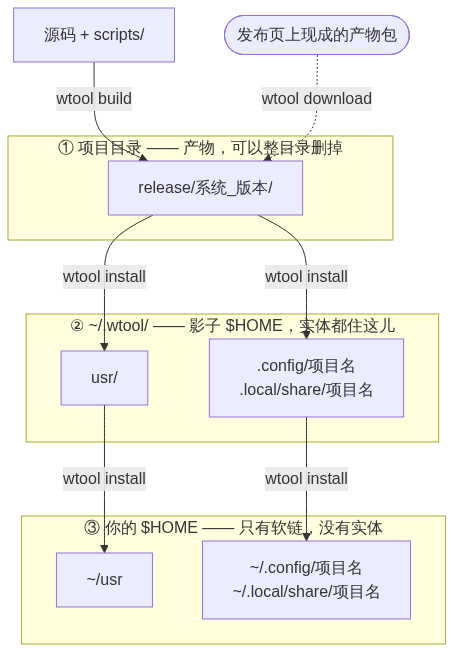
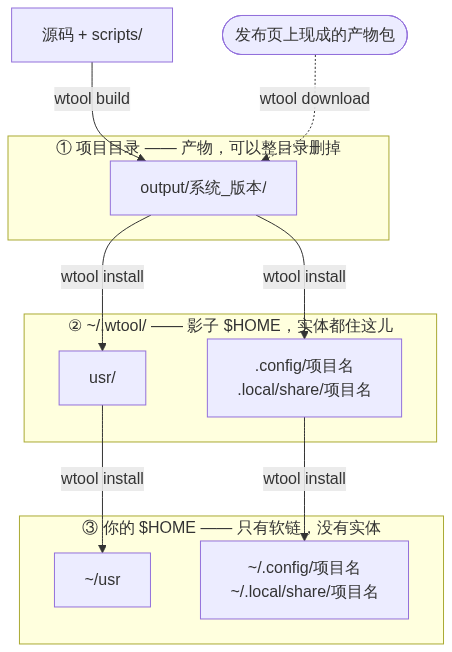
目录改名：release/ → output/、publish/ → release/（用户文档）
跟着引擎走（决策见 harness 的 ADR-022）。给用户看到的两个目录名字变了：
产出落到 `output/`，打包出来的发布物在 `release/`。

- README.md 42 处：§1.1 流水线图、§1.2 命令表、§1.3 目录说明、§3.3/§3.4 的命令
- .pic/commands.mmd、layers.mmd、.pic/README.md
- **.pic/commands.png / layers.png 重新渲染过**（`sh .pic/render.sh`）——
  图里的字是画上去的，只改 mmd 不改 PNG 就是旧的（已肉眼确认两张图上是
  output/ 和 release/）
- 顺带把 §1.3 里 `output/` 的中文标签从"发布目录"改成"产物目录"
  （现在"发布"是 `release/` 那一格的事了）

diff --git a/.pic/README.md b/.pic/README.md
@@ -25,8 +25,8 @@ Typora 能看 PNG，harness 右边栏那个 markdown 预览器两者都不认（
 
 | 图 | 用在哪 | 画什么 |
 |---|---|---|
-| `layers.png` | README §1.4 | 三层路径：`release/` → `~/.wtool/` → `$HOME`，命令标在箭头上 |
-| `commands.png` | README §1.3 | 每条命令与 `release/`、`publish/` 的关系（一条闭环） |
+| `layers.png` | README §1.4 | 三层路径：`output/` → `~/.wtool/` → `$HOME`，命令标在箭头上 |
+| `commands.png` | README §1.3 | 每条命令与 `output/`、`release/` 的关系（一条闭环） |
 
 改图就改 `.mmd`，然后：
 
